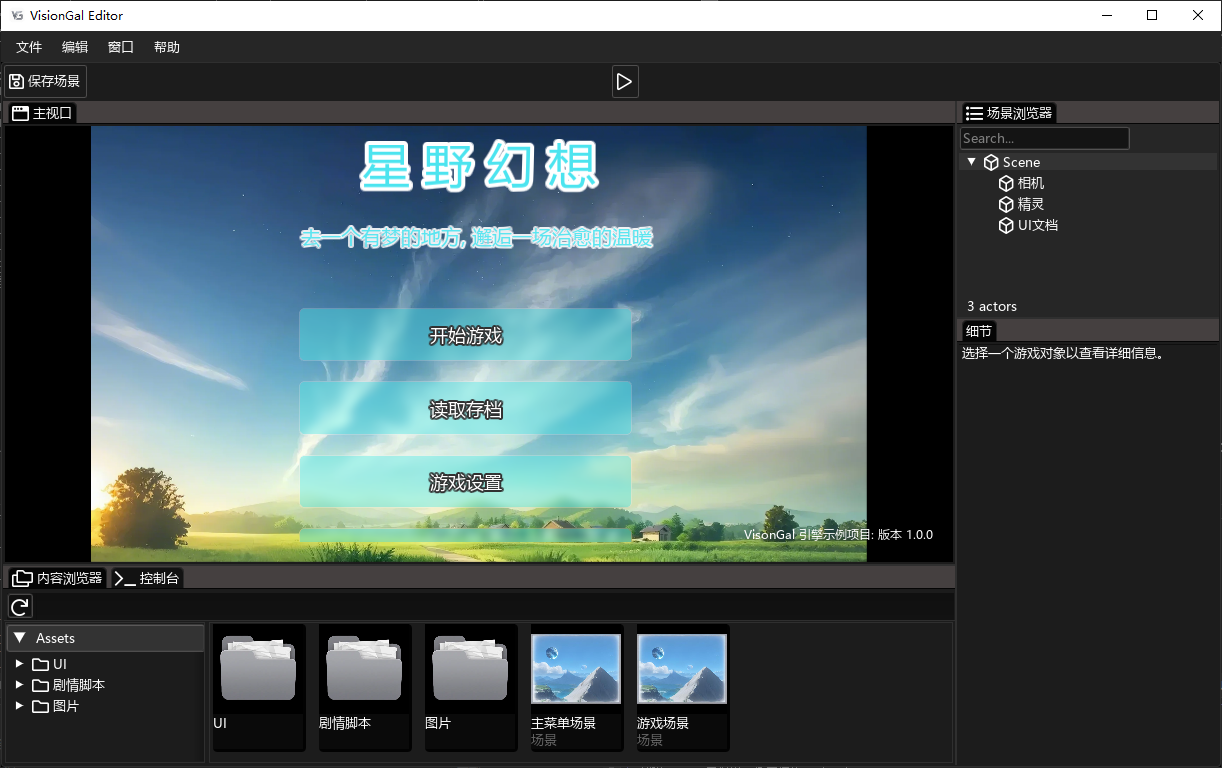
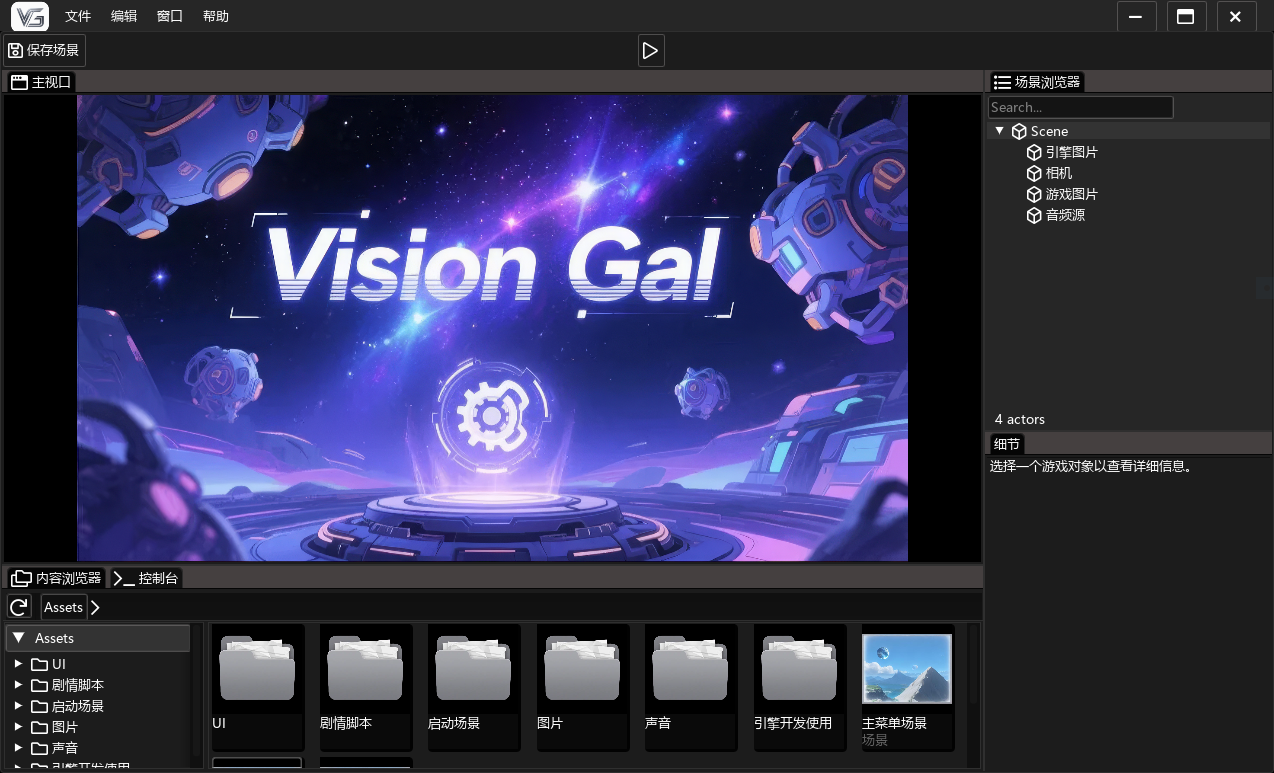
更新编辑器UI,无边框窗口

diff --git a/Editor/VGEditorFramework/Source/MainEditor/MenuBar.cpp b/Editor/VGEditorFramework/Source/MainEditor/MenuBar.cpp
@@ -13,15 +13,24 @@
 //#include "VGImgui/Include/ImGuiEx/IconFont/IconsFontAwesome5Pro.h"
 #include <VGImgui/IncludeImGuiEx.h>
 #include "PanelManager.h"
+#include "EditorCore/EditorCore.h"
 #include "EditorCore/Localization.h"
 #include "EditorCore/EdtiorScene.h"
 #include "HCore/Include/System/HSystemMisc.h"
 #include "MainEditor/MainPanel.h"
+#include "VGEngine/Include/Core/Input.h"
 #include "VGEngine/Include/Engine/Manager.h"
 #include "VGEngine/Include/Engine/VGEngine.h"
+#include "VGEngine/Include/Interface/Loader.h"
 
 namespace VisionGal::Editor
 {
+	EditorMenuBar::EditorMenuBar(VGWindow* window)
+		:m_EditorWindow(window)
+	{
+		m_EngineIcon = LoadObject<Texture2D>(  "/editor/icons/engineIcon.png");
+	}
+
 	void EditorMenuBar::OnGUI()
 	{
 		static bool s_ShowImguiStyleEditor = false;
@@ -34,7 +43,15 @@ namespace VisionGal::Editor
 
 		if (ImGui::BeginMainMenuBar())
 		{
-			//HandleDraggingWindow();
+			// 拖动窗口
+			HandleDraggingWindow();
+
+			// 引擎图标
+			ImGui::PushStyleVar(ImGuiStyleVar_FramePadding, ImVec2(0, 0));
+			ImVec2 size = { 40,ImGui::GetFrameHeight() * 2 };
+			ImGui::Image(m_EngineIcon->GetTexture()->GetShaderResourceView(),
+				size);
+			ImGui::PopStyleVar();
 
 			// 文件菜单
 			if (ImGui::BeginMenu(EditorText{ "File" }.c_str()))
@@ -153,7 +170,7 @@ namespace VisionGal::Editor
 				ImGui::EndMenu();
 			}
 
-			//HandleWindowControl();
+			HandleWindowControl();
 			ImGui::EndMainMenuBar();
 		}
 
@@ -185,5 +202,80 @@ namespace VisionGal::Editor
 	bool EditorMenuBar::IsWindowOpened()
 	{
 		return true;
+	}
+
+	void EditorMenuBar::HandleDraggingWindow()
+	{
+		if (!ImGui::IsWindowHovered() && !m_bDragging)
+			return;
+
+		if (!ImGui::IsMouseDragging(ImGuiMouseButton_Left))
+		{
+			m_bDragging = false;
+			return;
+		}
+
+		static int2 position = int2(0, 0);
+		if (m_bDragging == false)
+		{
+			position = m_EditorWindow->GetWindowPos();
+		}
+
+		m_bDragging = true;
+		if (m_EditorWindow)
+		{
+			auto dragDelta = ImGui::GetMouseDragDelta(ImGuiMouseButton_Left);
+			//std::cout << "Drag Delta: " << dragDelta.x << ", " << dragDelta.y << std::endl;
+			//std::cout << "position: " << position.x << ", " << position.y << std::endl;
+			m_EditorWindow->SetWindowPos(position.x + dragDelta.x, position.y + dragDelta.y);
+		}
+	}
+
+	void EditorMenuBar::HandleWindowControl()
+	{
+		if (m_EditorWindow == nullptr)
+			return;
+
+		//ImGui::SameLine(ImGui::GetWindowWidth() - 160);
+		ImGui::Indent(ImGui::GetWindowWidth() - 160);
+
+		ImGui::PushID("MainMenuBarPanel WindowControl");
+		ImGui::PushStyleColor(ImGuiCol_Button, ImVec4{ 0.1f, 0.1f, 0.1f, 0.1f });
+		ImGui::PushStyleColor(ImGuiCol_ButtonHovered, ImVec4{ 1.0f, 1.0f, 1.0f, 0.2f });
+		ImGui::PushStyleColor(ImGuiCol_ButtonActive, ImVec4{ 1.0f, 1.0f, 1.0f, 0.4f });
+		ImGui::PushStyleColor(ImGuiCol_Border, ImVec4{ 0.0f, 0.0f, 0.0f, 0.01f });
+
+		ImVec2 size = { 40,ImGui::GetFrameHeight() };
+
+		if (ImGui::Button(ICON_FA_MINUS"##WindowMin", size))
+		{
+			m_EditorWindow->MinimizeWindow();
+		}//ImGui::SameLine();
+
+		if (m_EditorMaximized)
+		{
+			if (ImGui::Button(ICON_FA_WINDOW_RESTORE"##WindowMax", size))
+			{
+				m_EditorWindow->RestoreWindow();
+				m_EditorMaximized = false;
+			}//ImGui::SameLine();
+		}
+		else
+		{
+			if (ImGui::Button(ICON_FA_WINDOW_MAXIMIZE"##WindowMax", size))
+			{
+				m_EditorWindow->MaximizeWindow();
+				m_EditorMaximized = true;
+			}//ImGui::SameLine();
+		}
+
+
+		if (ImGui::Button(ICON_FA_TIMES"##WindowClose", size))
+		{
+			VGEngine::Get()->RequestExit();
+		}
+
+		ImGui::PopStyleColor(4);
+		ImGui::PopID();
 	}
 }

diff --git a/Runtime/VGEngine/Source/Core/Window.cpp b/Runtime/VGEngine/Source/Core/Window.cpp
@@ -24,6 +24,50 @@ namespace VisionGal
 			});
 	}
 
+	SDL_HitTestResult VGHitTestCallback(SDL_Window* win, const SDL_Point* pt, void* data)
+	{
+#define REPORT_RESIZE_HIT(name) { std::cout << "HIT-TEST: RESIZE_" #name "\n" << std::endl;OnResizeWindowMode = true; return SDL_HITTEST_RESIZE_##name;  }
+
+		static constexpr int RESIZE_BORDER = 5;
+		bool& OnResizeWindowMode = *reinterpret_cast<bool*>(data);
+
+		int w, h;
+		SDL_GetWindowSize(win, &w, &h);
+
+		if (pt->x < RESIZE_BORDER && pt->y < RESIZE_BORDER) {
+			REPORT_RESIZE_HIT(TOPLEFT);
+		}
+		else if (pt->x > RESIZE_BORDER && pt->x < w - RESIZE_BORDER && pt->y < RESIZE_BORDER) {
+			REPORT_RESIZE_HIT(TOP);
+		}
+		else if (pt->x > w - RESIZE_BORDER && pt->y < RESIZE_BORDER) {
+			REPORT_RESIZE_HIT(TOPRIGHT);
+		}
+		else if (pt->x > w - RESIZE_BORDER && pt->y > RESIZE_BORDER && pt->y < h - RESIZE_BORDER) {
+			REPORT_RESIZE_HIT(RIGHT);
+		}
+		else if (pt->x > w - RESIZE_BORDER && pt->y > h - RESIZE_BORDER) {
+			REPORT_RESIZE_HIT(BOTTOMRIGHT);
+		}
+		else if (pt->x < w - RESIZE_BORDER && pt->x > RESIZE_BORDER && pt->y > h - RESIZE_BORDER) {
+			REPORT_RESIZE_HIT(BOTTOM);
+		}
+		else if (pt->x < RESIZE_BORDER && pt->y > h - RESIZE_BORDER) {
+			REPORT_RESIZE_HIT(BOTTOMLEFT);
+		}
+		else if (pt->x < RESIZE_BORDER && pt->y < h - RESIZE_BORDER && pt->y > RESIZE_BORDER) {
+			REPORT_RESIZE_HIT(LEFT);
+		}
+
+		return SDL_HITTEST_NORMAL;
+	}
+
+	void VGWindow::SetInitializeBorderless(bool borderless)
+	{
+		m_Borderless = borderless;
+		//return SDL_SetWindowBordered(GetSDLWindow(), !borderless);
+	}
+
 	bool VGWindow::Initialize(const char* window_name, int width, int height, bool allow_resize)
 	{
 		if (!SDL_Init(SDL_INIT_VIDEO | SDL_INIT_EVENTS | SDL_INIT_AUDIO))
@@ -55,6 +99,12 @@ namespace VisionGal
 		SDL_SetBooleanProperty(props, SDL_PROP_WINDOW_CREATE_OPENGL_BOOLEAN, true);
 		SDL_SetBooleanProperty(props, SDL_PROP_WINDOW_CREATE_RESIZABLE_BOOLEAN, allow_resize);
 		SDL_SetBooleanProperty(props, SDL_PROP_WINDOW_CREATE_HIGH_PIXEL_DENSITY_BOOLEAN, true);
+
+		// 无边框
+		if (m_Borderless)
+			SDL_SetBooleanProperty(props, SDL_PROP_WINDOW_CREATE_BORDERLESS_BOOLEAN, true);
+
+		// 创建窗口
 		SDL_Window* window = SDL_CreateWindowWithProperties(props);
 		SDL_DestroyProperties(props);
 
@@ -110,6 +160,17 @@ namespace VisionGal
 
 		//注意：还必须在按下字符键时启用 SDL 的文本输入模式：
 		//SDL_StartTextInput(window);   // 在应用开始时调用
+
+		// 设置无边框可调整大小
+		if (m_Borderless)
+		{
+			SDL_GetWindowID(GetSDLWindow());
+			SDL_SetWindowResizable(GetSDLWindow(), true);
+			SDL_SetWindowHitTest(GetSDLWindow(), VGHitTestCallback, &m_OnResizeWindowMode);
+		}
+
+		// 设置窗口获得焦点
+		SDL_RaiseWindow(GetSDLWindow());
 
 		return true;
 	}

diff --git a/Runtime/VGEngine/Source/Core/Input.cpp b/Runtime/VGEngine/Source/Core/Input.cpp
@@ -44,31 +44,68 @@ namespace VisionGal
 
 	bool Input::GetMouseButtonDown(int button)
 	{
+		if (Get()->m_Viewport == nullptr)
+			return false;
+
+		if (Get()->m_Viewport->IsEnableInput() == false)
+			return false;
+			//return Horizon::SDL3::WINDOW_LAYER_RESULT_DEFAULT;
+
 		return GetMouse().IsMouseButtonDown(static_cast<Horizon::HMouseButton>(button));
 	}
 
 	bool Input::GetMouseButtonUp(int button)
 	{
+		if (Get()->m_Viewport == nullptr)
+			return false;
+
+		if (Get()->m_Viewport->IsEnableInput() == false)
+			return false;
+
 		return GetMouse().IsMouseButtonUp(static_cast<Horizon::HMouseButton>(button));
 	}
 
 	bool Input::GetMouseButtonHeld(int button)
 	{
+		if (Get()->m_Viewport == nullptr)
+			return false;
+
+		if (Get()->m_Viewport->IsEnableInput() == false)
+			return false;
+
 		return GetMouse().IsMouseButtonHeld(static_cast<Horizon::HMouseButton>(button));
 	}
 
 	bool Input::GetKey(Horizon::HKeycode code)
 	{
+		if (Get()->m_Viewport == nullptr)
+			return false;
+
+		if (Get()->m_Viewport->IsEnableInput() == false)
+			return false;
+
 		return GetKeyboard().IsKeyHeld(code);
 	}
 
 	bool Input::GetKeyDown(Horizon::HKeycode code)
 	{
+		if (Get()->m_Viewport == nullptr)
+			return false;
+
+		if (Get()->m_Viewport->IsEnableInput() == false)
+			return false;
+
 		return GetKeyboard().IsKeyDown(code);
 	}
 
 	bool Input::GetKeyUp(Horizon::HKeycode code)
 	{
+		if (Get()->m_Viewport == nullptr)
+			return false;
+
+		if (Get()->m_Viewport->IsEnableInput() == false)
+			return false;
+
 		return GetKeyboard().IsKeyUp(code);
 	}
 

diff --git a/Editor/VGEditorFramework/Include/MainEditor/MenuBar.h b/Editor/VGEditorFramework/Include/MainEditor/MenuBar.h
@@ -14,12 +14,15 @@
 #include <vector>
 #include <HCore/Include/HConfig.h>
 #include <VGImgui/IncludeImGui.h>
+#include <VGEngine/Include/Core/Window.h>
+#include <VGEngine/Include/Resource/Texture2D.h>
 
 namespace VisionGal::Editor
 {
 	struct VG_EDITOR_FRAMEWORK_API EditorMenuBar : public IEditorPanel
 	{
 		EditorMenuBar() = default;
+		EditorMenuBar(VGWindow* window);
 		EditorMenuBar(const EditorMenuBar&) = default;
 		EditorMenuBar& operator=(const EditorMenuBar&) = default;
 		EditorMenuBar(EditorMenuBar&&) noexcept = default;
@@ -31,6 +34,14 @@ namespace VisionGal::Editor
 		std::string GetWindowName() override;
 		void OpenWindow(bool open) override;
 		bool IsWindowOpened() override;
+
+	private:
+		void HandleDraggingWindow();
+		void HandleWindowControl();
+		bool m_bDragging = false;
+		VGWindow* m_EditorWindow = nullptr;
+		bool m_EditorMaximized = false;
+		Ref<Texture2D> m_EngineIcon = nullptr;
 	};
 
 }

diff --git a/Runtime/VGEngine/Include/Core/Window.h b/Runtime/VGEngine/Include/Core/Window.h
@@ -27,10 +27,14 @@ namespace VisionGal
         VGWindow& operator=(const VGWindow&) = delete;
         ~VGWindow() override = default;
     public:
+		void SetInitializeBorderless(bool borderless);
         bool Initialize(const char* window_name, int width, int height, bool allow_resize);
         SDL_GLContext GetContext() override { return m_GLContext; }
     private:
         SDL_GLContext m_GLContext;
+
+		bool m_OnResizeWindowMode = false;
+		bool m_Borderless = false;
     };
 
 }

diff --git a/Editor/VGEditor/Source/EngineEditor.cpp b/Editor/VGEditor/Source/EngineEditor.cpp
@@ -35,6 +35,7 @@ namespace VisionGal::Editor
 
 		// 初始化编辑器窗口
 		m_EditorWindow = CreateRef<VGWindow>();
+		m_EditorWindow->SetInitializeBorderless(true);
 		m_EditorWindow->Initialize(editorName.c_str(), windowWidth, windowHeight,true);
 
 		// 初始化游戏引擎
@@ -61,7 +62,7 @@ namespace VisionGal::Editor
 		auto mainWindow = CreateRef<EditorMainWindow>();
 		//auto editorSidebar = CreateRef<EditorSideBar>();
 
-		editor->AddPanelWithID("EditorMenuBar", CreateRef<EditorMenuBar>());
+		editor->AddPanelWithID("EditorMenuBar", CreateRef<EditorMenuBar>(m_EditorWindow.get()));
 		//editor->AddPanelWithID("EditorSideBar", editorSidebar);
 		editor->AddPanelWithID("EditorMainWindow", mainWindow);
 		editor->AddPanelWithID("EditorPreferences", CreateRef<PreferencesPanel>());

diff --git a/Runtime/HCore/Include/Platform/SDL3/SDL3Window.cpp b/Runtime/HCore/Include/Platform/SDL3/SDL3Window.cpp
@@ -235,7 +235,7 @@ namespace Horizon::SDL3
 		SDL_SetWindowPosition(m_pWindow, x, y);
 	}
 
-	uint2 Window::GetWindowPos() const
+	int2 Window::GetWindowPos() const
 	{
 		int x, y;
 		SDL_GetWindowPosition(m_pWindow, &x, &y);

diff --git a/Runtime/HCore/Include/Platform/SDL3/SDL3Window.h b/Runtime/HCore/Include/Platform/SDL3/SDL3Window.h
@@ -70,7 +70,7 @@ namespace Horizon::SDL3
 		unsigned WindowHeight() const noexcept override;
 
 		void SetWindowPos(int x, int y) override;
-		uint2 GetWindowPos() const override;
+		int2 GetWindowPos() const override;
 
 		void MinimizeWindow() override;
 		void MaximizeWindow() override;

diff --git a/Runtime/HCore/Include/Platform/WindowInterface.h b/Runtime/HCore/Include/Platform/WindowInterface.h
@@ -30,7 +30,7 @@ H_BEGIN_ROOT_NAMESPACE
 	virtual unsigned int WindowHeight() const noexcept = 0;
 
 	virtual void SetWindowPos(int x, int y) = 0;
-	virtual uint2 GetWindowPos() const = 0;
+	virtual int2 GetWindowPos() const = 0;
 
 	virtual void MinimizeWindow() = 0;
 	virtual void MaximizeWindow() = 0;

diff --git a/Runtime/VGEngine/Include/Core/Input.h b/Runtime/VGEngine/Include/Core/Input.h
@@ -48,7 +48,7 @@ namespace VisionGal
 		Ref<Horizon::SDL3::Mouse> m_Mouse = nullptr;
 		Ref<Horizon::SDL3::Keyboard> m_Keyboard = nullptr;
 
-		Viewport* m_Viewport;
+		Viewport* m_Viewport = nullptr;
 		std::unordered_map<std::string, Horizon::HKeycode> m_NameKeycodeMap;
 	};
 

diff --git a/Editor/VGEditorFramework/Source/EditorComponents/CodeStudio/DocumentManager.cpp b/Editor/VGEditorFramework/Source/EditorComponents/CodeStudio/DocumentManager.cpp
@@ -21,6 +21,7 @@ namespace VisionGal::Editor
 		}
 
 		AddDocument(doc);
+		SetDocumentActive(path);
 
 		return true;
 	}

diff --git a/Runtime/HCore/Source/System/Input/HNativeMouse.cpp b/Runtime/HCore/Source/System/Input/HNativeMouse.cpp
@@ -495,6 +495,7 @@ namespace Horizon
 
 	HMousePos HMouse::GetMousePosition() const noexcept
 	{
+
 		return m_MouseContext.GetPos();
 	}
 